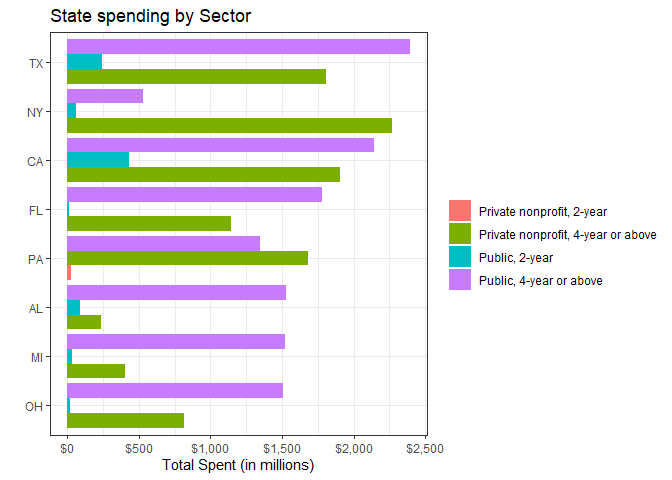
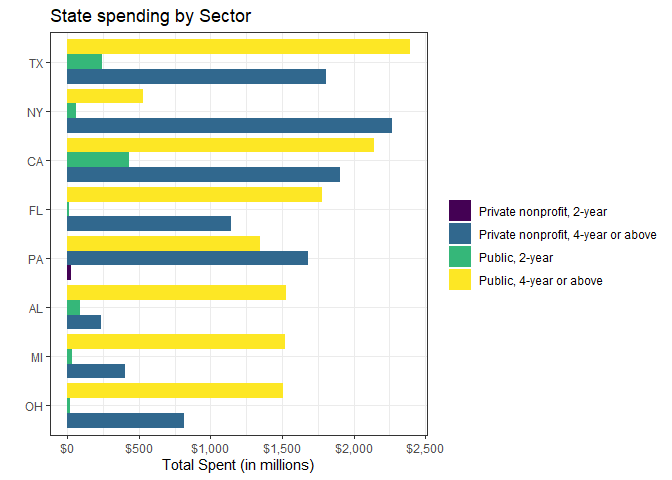
quick color change

Changed region(s): [[0.0938, 0.0625, 0.625, 0.9062], [0.6562, 0.4062, 0.7188, 0.625]]

diff --git a/Sports.md b/Sports.md
@@ -253,7 +253,7 @@ sports %>%
   geom_col(position = "dodge") + 
   labs(y = "", x = "Total Spent (in millions)", fill = "",
        title = "State spending by Sector") + 
-  scale_x_continuous(labels = scales::dollar)
+  scale_x_continuous(labels = scales::dollar) + scale_fill_viridis_d()
 ```
 
     ## `summarise()` has grouped output by 'state'. You can override using the
